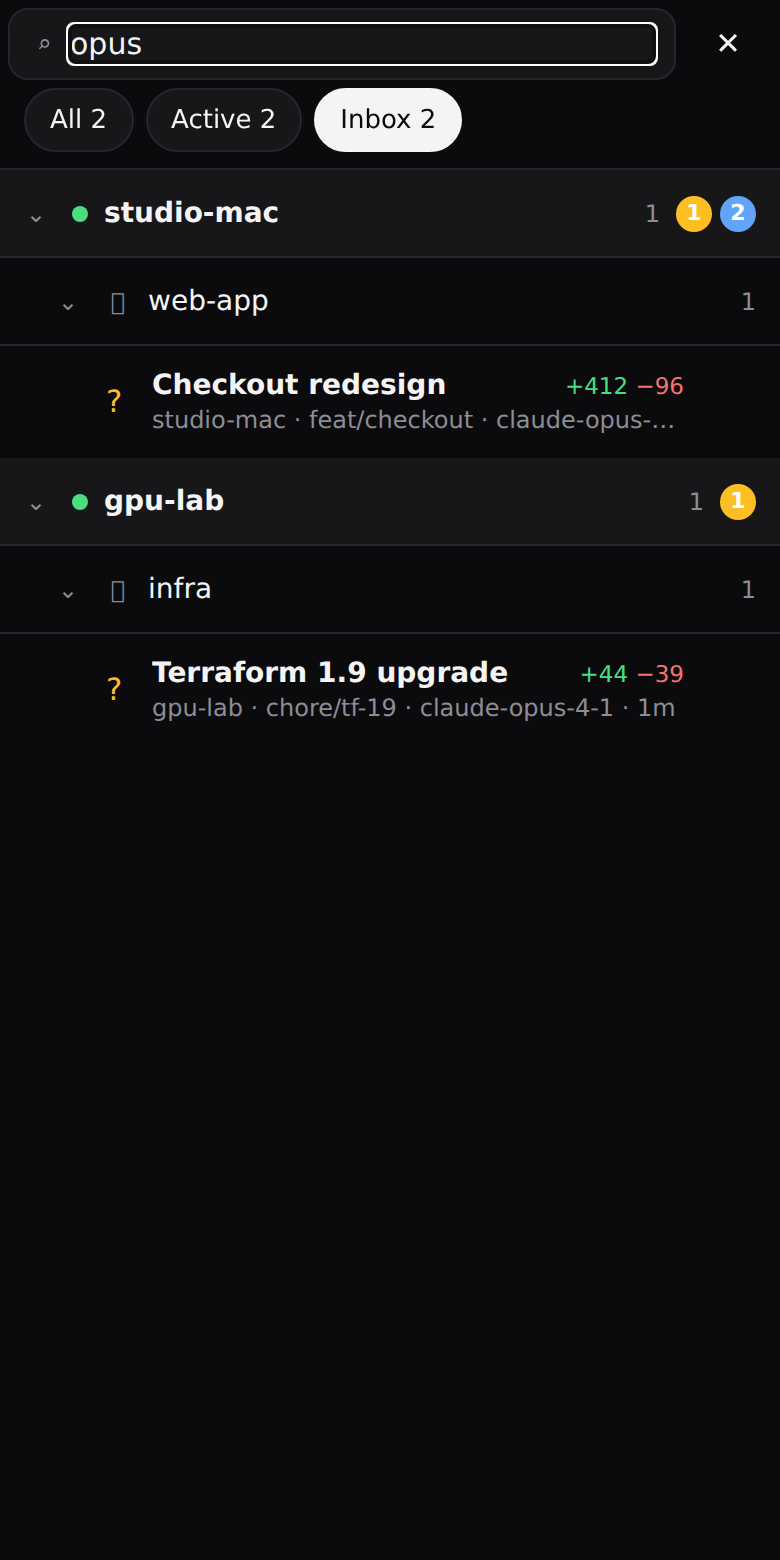
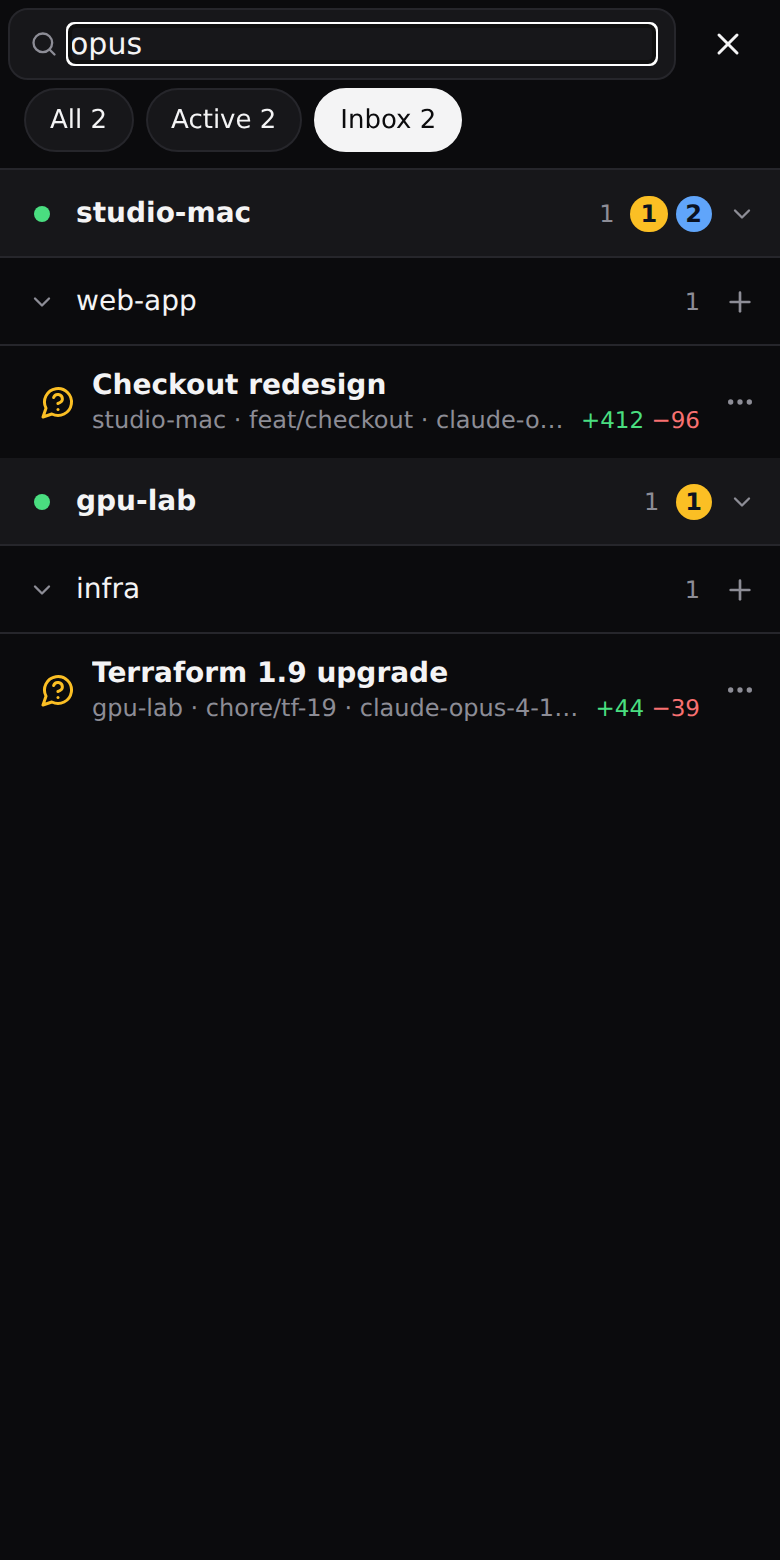
Refresh README screenshots; add row menu and new-workspace shots

diff --git a/README.md b/README.md
@@ -25,6 +25,10 @@ A Host → Project → Workspace tree for [Paseo](https://paseo.sh), built for t
 | --- | --- | --- | --- |
 | <img src="docs/screenshots/desktop.png" width="260"> | <img src="docs/screenshots/settings.png" width="200"> | <img src="docs/screenshots/phone-profiles.png" width="160"> | <img src="docs/screenshots/phone-search.png" width="160"> |
 
+| All, with a pin | Row actions | New workspace |
+| --- | --- | --- |
+| <img src="docs/screenshots/phone-all.png" width="200"> | <img src="docs/screenshots/phone-row-menu.png" width="200"> | <img src="docs/screenshots/phone-new-workspace.png" width="200"> |
+
 See [OVERVIEW.md](OVERVIEW.md) for more detail.
 
 ## Install
